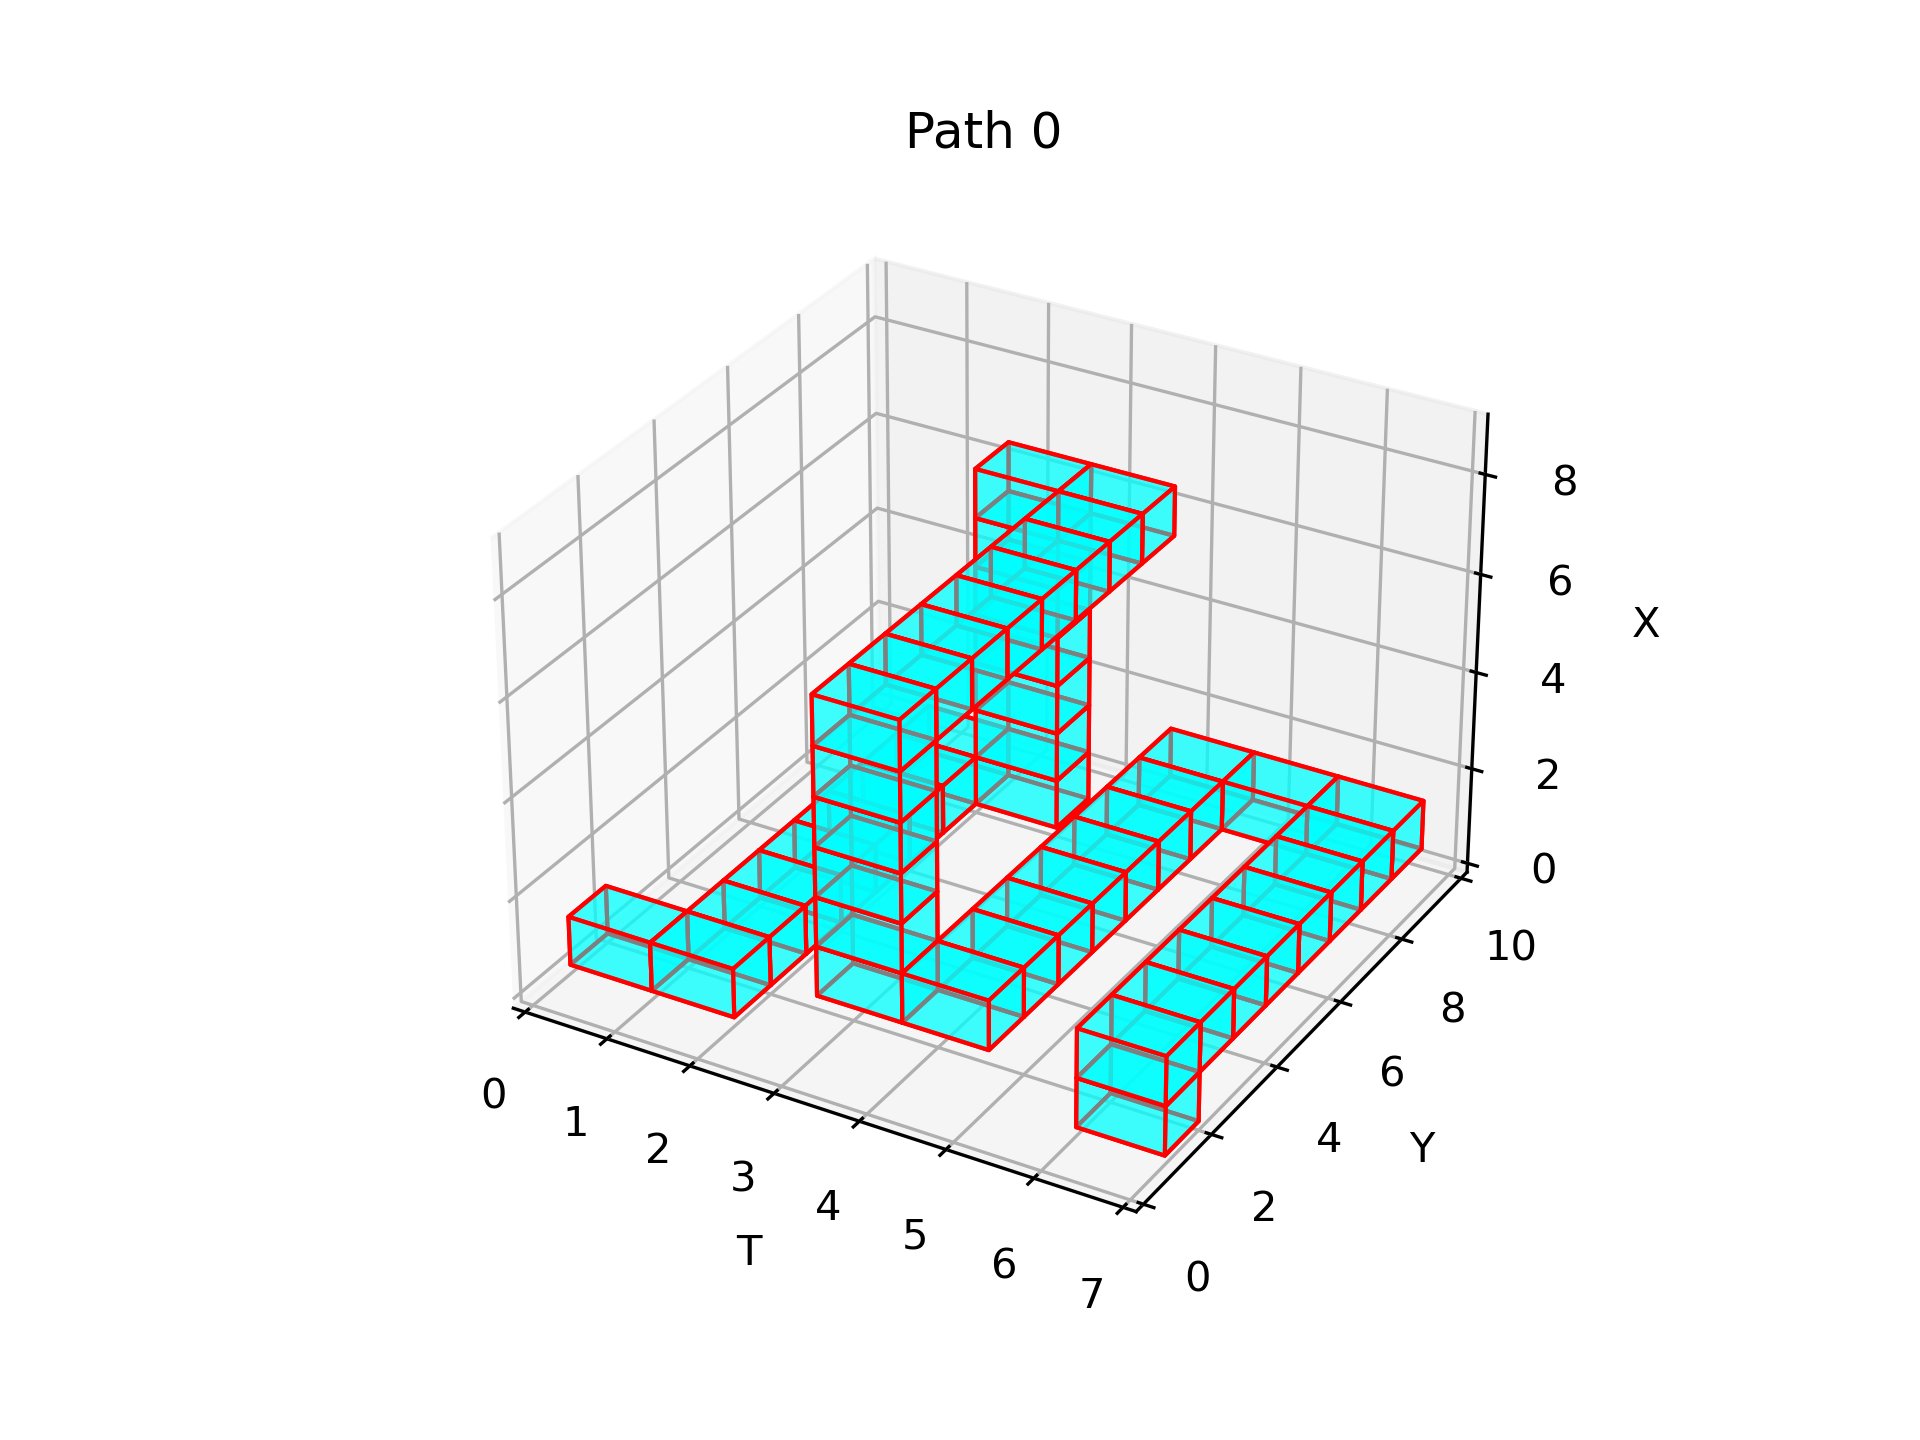
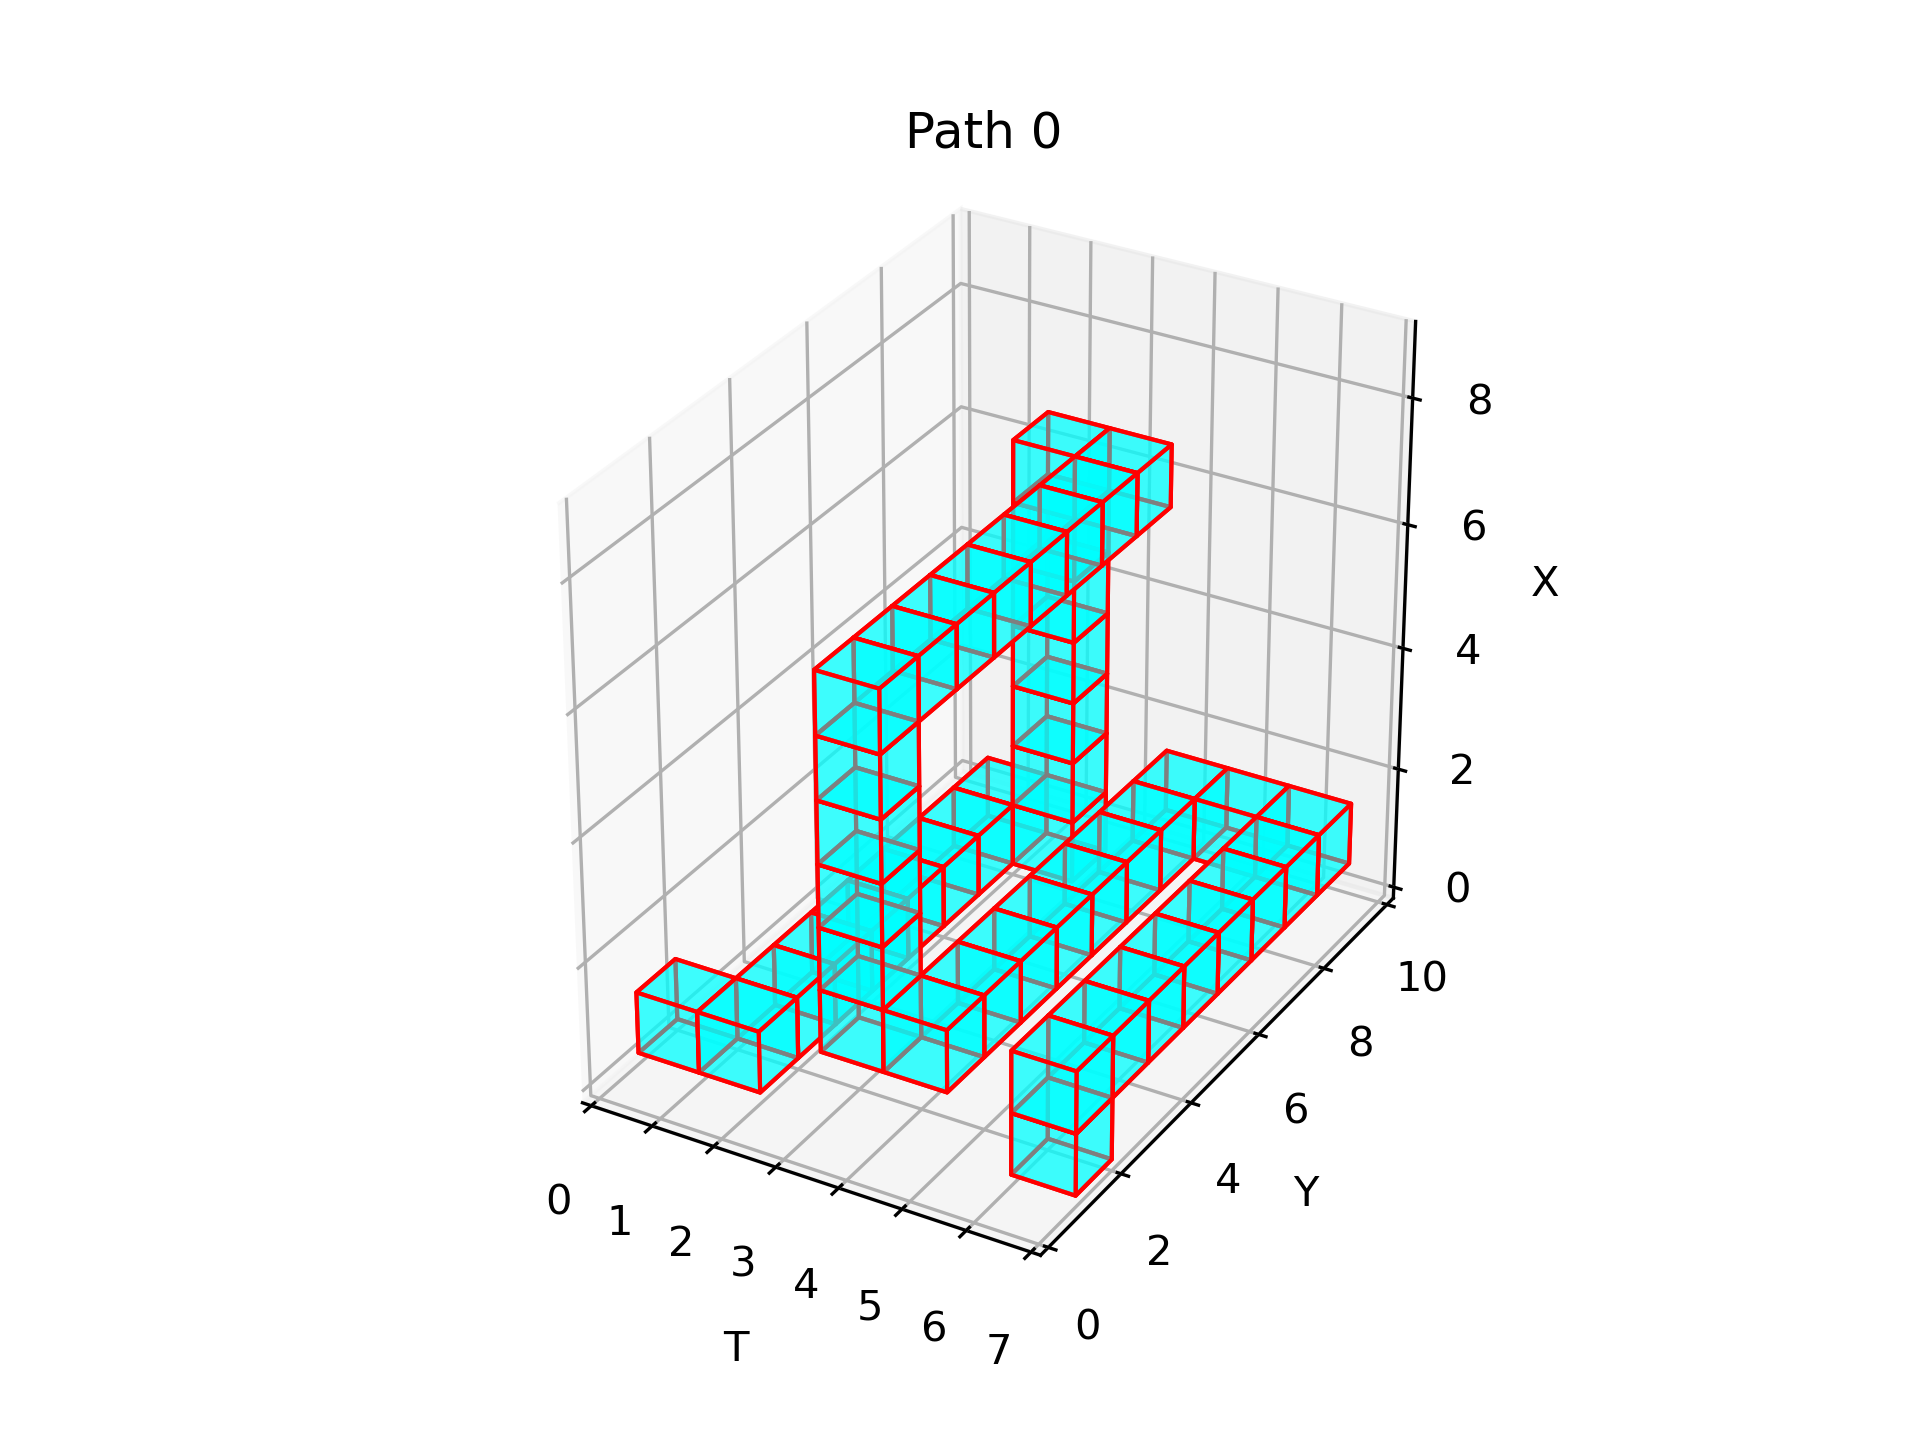
Adding results and some fixes

diff --git a/plotting.py b/plotting.py
@@ -1,48 +1,61 @@
-import numpy as np
-import matplotlib.pyplot as plt
-import matplotlib.animation as animation
-import matplotlib.colors
-
-from evasion import *
-
+from findPaths import *
+from generator import naive_generator
 import matplotlib
-# matplotlib.use("TkAgg")
-
+from matplotlib import animation
 
 def sort_path(path, time_dim):
     """Sorts the path according to time, x, y."""
     new_path = []
     for t in range(time_dim):
         p = [p for p in path if p[0] == t]
-        if t == 0:
-            p = sorted(p, key=lambda x: (x[0], x[1], x[2]))
-        elif len(new_path) > 0 and len(p) > 1:
+        if len(new_path) > 0 and len(p) > 1:
             last_pos = new_path[-1]
-            high_x = max(p, key=lambda x: x[1])[1]
-            high_y = max(p, key=lambda x: x[2])[2]
-            # Check if last position is highest or lowest in new path
-            if last_pos[1] >= high_x and last_pos[2] >= high_y:
-                p = sorted(p, key=lambda x: (x[0], -x[1], -x[2]))
-            else:
-                p = sorted(p, key=lambda x: (x[0], x[1], x[2]))
-        new_path.extend(p)
+            # Find index of the point with same coordinates as last_pos
+            ind = [i for i in range(len(p)) if p[i][1] == last_pos[1] and p[i][2] == last_pos[2]][0]
+            path_time = [p[ind]]
+            visited = np.zeros(len(p))
+            visited[ind] = 1
+            cur = p[ind]
+            while np.sum(visited) < len(p):
+                for ind in range(len(p)):
+                    if visited[ind] == 1:
+                        continue
+                    point = p[ind]
+                    if abs(cur[1] - point[1]) + abs(cur[2] - point[2]) == 1:
+                        cur = point
+                        path_time.append(cur)
+                        visited[ind] = 1
+                        break
+            new_path.extend(path_time)
+        else:
+            new_path.extend(p)
     return new_path
 
 
-def visualize(sensor_locs, path, grid_size=4, fname='evasion.gif'):
+def visualize(sensor_locs, path, grid_size=4, needsSorting=True, fname='evasion.gif'):
     """
     Visualize the path of the intruder through the grid.
     path: list of tuples (time, x, y)
     sensor_locs: list of lists of tuples (x, y) for every time step
     path: list of tuples (time, x, y)
     """
-    path = sort_path(path, len(sensor_locs))
+    if needsSorting:
+        path = sort_path(path, len(sensor_locs))
 
     fig, ax = plt.subplots(dpi=300)
     ax.set_title("Evasion")
     ax.set_aspect('equal')
 
-    data = np.zeros((grid_size, grid_size))
+    sensorCount = len(sensor_locs[0]) // 4
+    # Create a custom colormap for all sensors
+    colors = [(1,1,1), (0, 1, 0)]
+    for i in range(0, sensorCount):
+        # Generate random red color with different shades
+        color = (np.random.rand(), 0, 0)
+        colors.append(color)
+    cMap = matplotlib.colors.ListedColormap(colors)
+
+    data = np.zeros((grid_size, grid_size), dtype=int)
     for ind in range(0, len(sensor_locs[0]), 4):
         loc = sensor_locs[0][ind]
         data[loc[0]][loc[1]] = ind + 2
@@ -54,37 +67,28 @@ def visualize(sensor_locs, path, grid_size=4, fname='evasion.gif'):
         data[loc[0]][loc[1]] = ind + 2
     data[path[0][1]][path[0][2]] = 1
 
-    # Create a custom colormap for all sensors
-    colors = ['white', (0, 1, 0)]
-    for i in range(0, len(sensor_locs)):
-        # Generate random red color with different shades
-        color = (1, np.random.rand() * 0.8, np.random.rand() * 0.8)
-        colors.append(color)
-
-    cmap = matplotlib.colors.ListedColormap(colors)
-    cax = ax.pcolor(data[::-1], cmap=cmap, edgecolors='k', linewidths=1)
-
+    cax = ax.pcolor(data[::-1], cmap=cMap, edgecolors='k', linewidths=1, animated=True)
     time = 0
     frame = 0
 
-    print(path)
-
     def animate(i):
-        nonlocal time, frame
+        nonlocal time, frame, cax
         ax.clear()
         ax.set_title(f"Evasion {time}/{len(sensor_locs)}")
-        new_data = np.zeros((grid_size, grid_size))
+        new_data = np.zeros((grid_size, grid_size), dtype=int)
 
         time = time % len(sensor_locs)
+        s = 2
         for ind in range(0, len(sensor_locs[time]), 4):
             loc = sensor_locs[time][ind]
-            new_data[loc[0]][loc[1]] = ind + 2
+            new_data[loc[0]][loc[1]] = s
             loc = sensor_locs[time][ind + 1]
-            new_data[loc[0]][loc[1]] = ind + 2
+            new_data[loc[0]][loc[1]] = s
             loc = sensor_locs[time][ind + 2]
-            new_data[loc[0]][loc[1]] = ind + 2
+            new_data[loc[0]][loc[1]] = s
             loc = sensor_locs[time][ind + 3]
-            new_data[loc[0]][loc[1]] = ind + 2
+            new_data[loc[0]][loc[1]] = s
+            s += 1
 
         if path[frame][0] == time:
             new_data[path[frame][1]][path[frame][2]] = 1
@@ -93,12 +97,14 @@ def visualize(sensor_locs, path, grid_size=4, fname='evasion.gif'):
         else:
             new_data[path[frame][1]][path[frame][2]] = 1
 
-        cax = ax.pcolor(new_data[::-1], cmap=cmap, edgecolors='k', linewidths=1)
+        cMap = matplotlib.colors.ListedColormap(colors)
+        cax = ax.pcolor(new_data[::-1], cmap=cMap, edgecolors='k', linewidths=1)
         frame = (frame + 1) % len(path)
         return cax,
 
-    anim = animation.FuncAnimation(fig, animate, frames=len(path), interval=1000, blit=False)
-    anim.save(f'output/{fname}', writer='Pillow', fps=2)
+    anim = animation.FuncAnimation(fig, animate, frames=len(path), interval=1000, blit=True)
+    anim.save(f'output/{fname}', writer='ima', fps=2)
+    plt.show()
 
 
 def visualize_sensors(sensors, period, grid_size=4, fname="sensors.gif"):
@@ -207,3 +213,42 @@ def visualize_space(space, path, fname='space.gif'):
     plt.show()
     anim.save(f'output/{fname}', writer='Pillow', fps=2)
 
+
+if __name__ == "__main__":
+    sensors, p = naive_generator(8)
+    all_nodes, locs = build_node_tree(sensors, period=p, grid_size=8)
+    space = constructSpace(sensors, p, dim=8)
+    node_path = find_path(all_nodes)
+    print("Path found: ", node_path is not None)
+    visualize_sensors(sensors, p, grid_size=8, fname="generated_example_3_sensors.gif")
+    if node_path is not None:
+        node_path = [[node.time, node.y, node.x] for node in node_path]
+        visualize(locs, node_path, needsSorting=False, grid_size=8, fname="generated_example_3.gif")
+    print(p)
+    print("Path found: ", node_path is not None)
+    print("TREE SEARCH DONE")
+    paths = narrowPaths(space, onePath=True)
+
+    print("Number of paths found: ", len(paths))
+    if len(paths) > 0:
+        specialCoords = paths[0]
+        visualize(locs, specialCoords, grid_size=8, fname="generated_example_3_topo.gif")
+
+    fig = plt.figure()
+    ax = fig.add_subplot(111, projection='3d')
+    spaceShape = np.shape(space)
+    # nariši najdeno pot, (Če je več poti lahko prikaže tudi dele drugih poti)
+    if len(paths) > 0:
+        for coord in specialCoords:
+            draw_cube(ax, coord, size = 1)
+
+    ax.set_xlim(0, spaceShape[0])
+    ax.set_ylim(0, spaceShape[1])
+    ax.set_zlim(0, spaceShape[2])
+    ax.set_xlabel('T')
+    ax.set_ylabel('Y')
+    ax.set_zlabel('X')
+    ax.set_aspect('equal')
+    ax.set_title("Path %i"%pathId)
+    plt.show()
+    fig.savefig("output/generated_example_3_path.png", dpi=300)

diff --git a/findPaths.py b/findPaths.py
@@ -4,7 +4,7 @@ from skimage import measure
 import matplotlib.pyplot as plt
 from mpl_toolkits.mplot3d.art3d import Poly3DCollection
 
-from plotting import *
+from tree_search import *
 # Plotting stuff
 
 # function to get solid cube coordinates
@@ -70,6 +70,7 @@ def plotCubes(space):
     ax.set_ylabel('Y')
     ax.set_zlabel('X')
     ax.set_title("Whole space")
+    fig.savefig("output/test_example_space.png", dpi=300)
 
 def find_islands(matrix):
     """
@@ -537,8 +538,6 @@ if __name__ == "__main__":
     # space[3, 1, 0:7] = 0
     # space[3, 6, 0:7] = 0
 
-    # from findPaths import *
-    # from tree_search import *
     # dim = (8, 8)
     # endpoints = [[0, 0], [5, 0]]
     # start_pos = [0, 0]
@@ -574,7 +573,7 @@ if __name__ == "__main__":
     # period = smallest_common_multiple([sensor.timePeriod for sensor in sensors])
     # all_nodes, locs = build_node_tree(sensors, period=period, grid_size=8)
     # space = constructSpace(sensors, period, dim=8)
-    # print(space)
+    # print(space.shape)
     # compute all paths
     paths = narrowPaths(space)
     print("Number of paths found: ", len(paths))
@@ -582,7 +581,8 @@ if __name__ == "__main__":
     pathId = 0
     if len(paths) > 0:
         specialCoords = paths[pathId]
-        #visualize_space(space, specialCoords)
+        #visualize(locs, specialCoords, grid_size=8, fname="test_example.gif")
+        #visualize_space(space, specialCoords, fname="test_example.gif")
 
     # Prikaz poti
     # Prvi plot - najdena pot
@@ -602,10 +602,10 @@ if __name__ == "__main__":
     ax.set_xlabel('T')
     ax.set_ylabel('Y')
     ax.set_zlabel('X')
+    ax.set_aspect('equal')
     ax.set_title("Path %i"%pathId)
     plt.show()
     fig.savefig("output/test_example_path.png", dpi=300)
     # nariši celoten prostor
     plotCubes(space)
     plt.show()
-    fig.savefig("output/test_example_space.png", dpi=300)

diff --git a/generator.py b/generator.py
@@ -2,8 +2,6 @@ import numpy as np
 
 from evasion import *
 
-from plotting import visualize_sensors
-
 
 def naive_generator(grid_size):
     """
@@ -53,16 +51,32 @@ def naive_generator(grid_size):
         # Choose endpoint
         endpoint = start
         if direction == 0: # Up
-            endY = np.argwhere(~coverage[:start[0], start[1]])[0][0]
+            endY = np.argwhere(~coverage[:start[0], start[1]])
+            if len(endY) == 0:
+                endY = start[0]
+            else:
+                endY = endY[0][0]
             endpoint = np.array([endY, start[1]])
         elif direction == 1: # Down
-            endY = np.argwhere(~coverage[start[0]:, start[1]])[-1][0]
+            endY = np.argwhere(~coverage[start[0]:, start[1]])
+            if len(endY) == 0:
+                endY = start[0]
+            else:
+                endY = endY[-1][0]
             endpoint = np.array([start[0] + endY, start[1]])
         elif direction == 2: # Left
-            endX = np.argwhere(~coverage[start[0], :start[1]])[0][0]
+            endX = np.argwhere(~coverage[start[0], :start[1]])
+            if len(endX) == 0:
+                endX = start[0]
+            else:
+                endX = endX[0][0]
             endpoint = np.array([start[0], endX])
         else: # Right
-            endX = np.argwhere(~coverage[start[0], start[1]:])[-1][0]
+            endX = np.argwhere(~coverage[start[0], start[1]:])
+            if len(endX) == 0:
+                endX = start[0]
+            else:
+                endX = endX[-1][0]
             endpoint = np.array([start[0], start[1] + endX])
 
         endpoint[0] = np.clip(endpoint[0], 0, grid_size - 2)
@@ -95,4 +109,4 @@ if __name__ == "__main__":
     size = 8
     sensors, p = naive_generator(size)
     print(sensors)
-    visualize_sensors(sensors, p, size)
+    #visualize_sensors(sensors, p, size)
